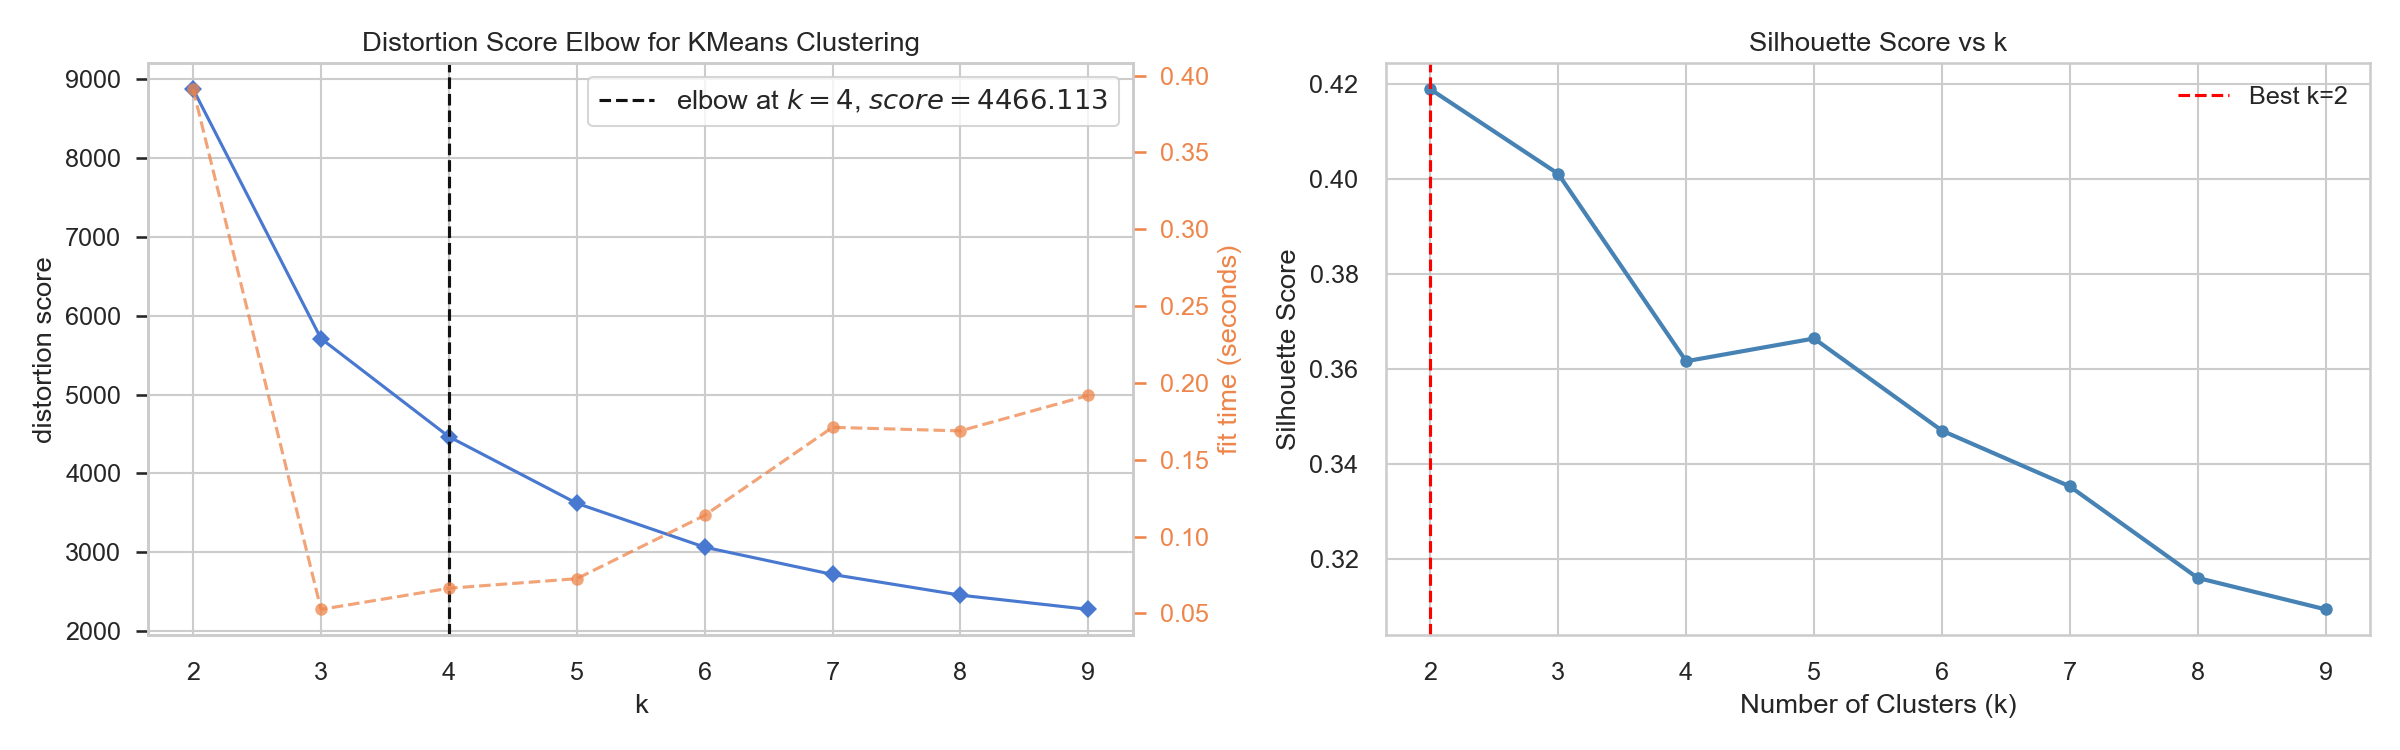
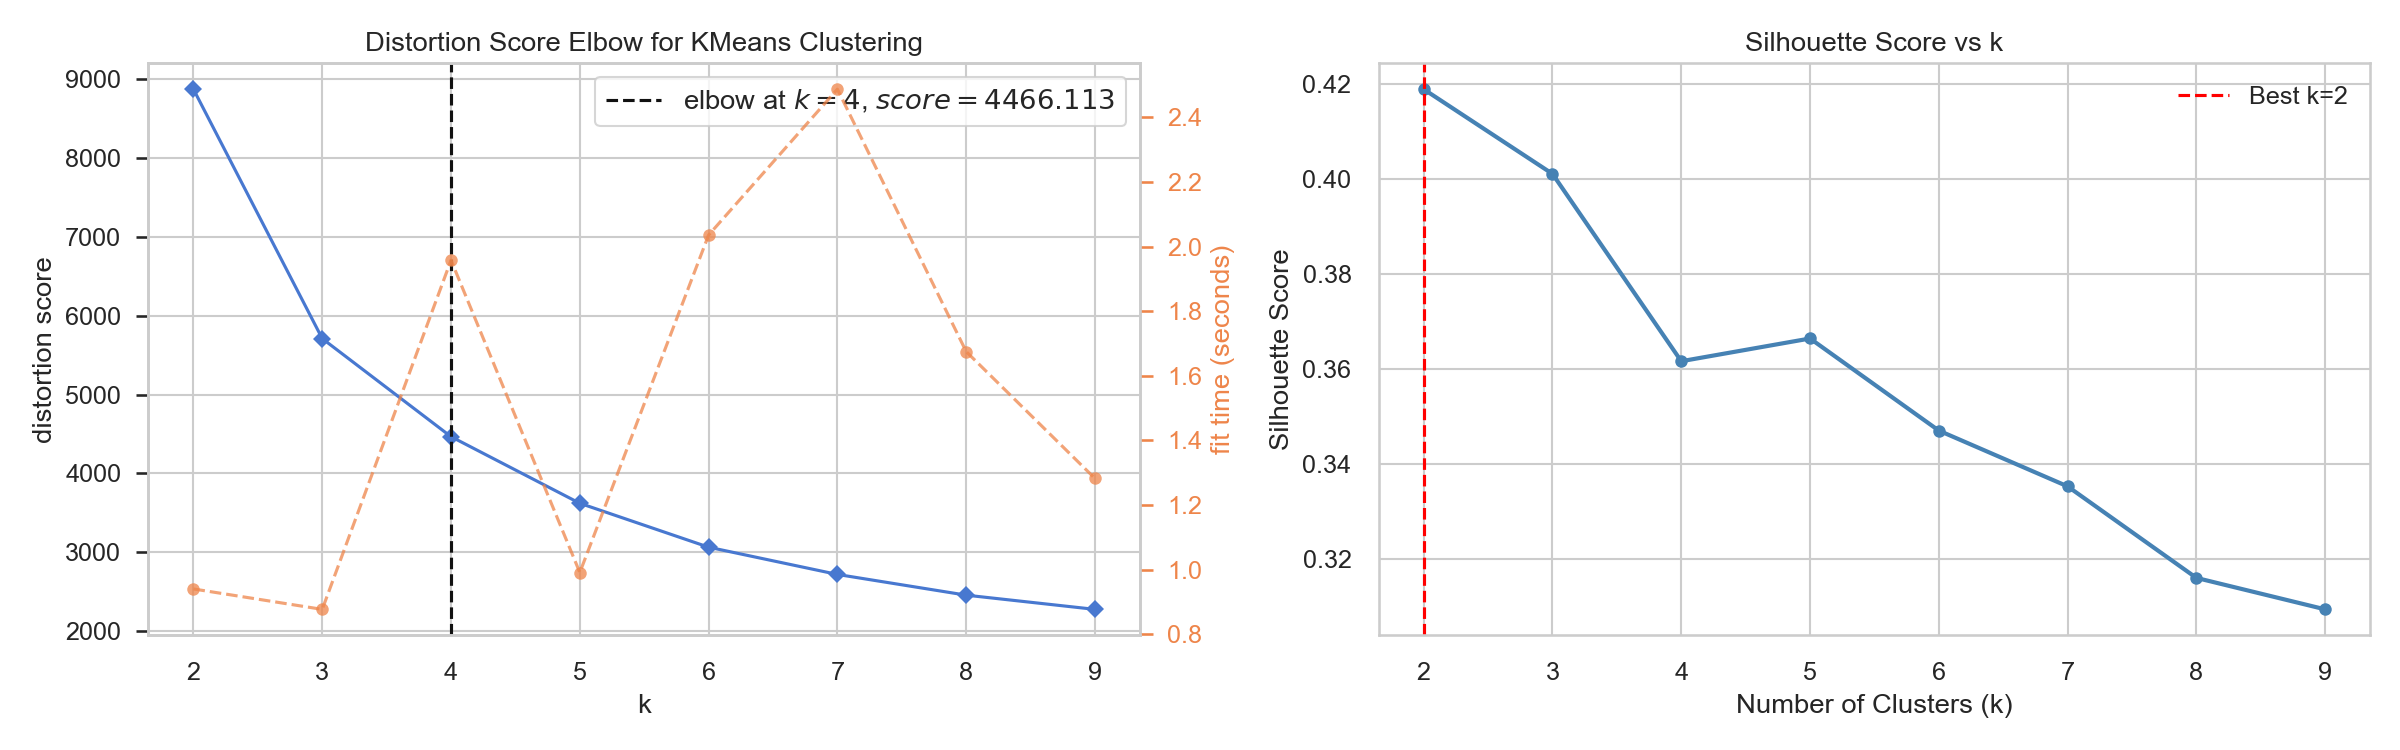
weekend 5 -compared diffrent models training to find the best model. Refactor code structure for improved readability and maintainability

diff --git a/reports/sweetviz_eda.html b/reports/sweetviz_eda.html
@@ -620,7 +620,7 @@ button
                 <div class="pos-df-summary-compare color-compare"></div>
             </div>
             <div class="dataframe-summary-row row-colored">
-                <div class="pos-df-summary-source color-source">314.9 MB</div>
+                <div class="pos-df-summary-source color-source">318.1 MB</div>
                 <div class="pos-df-summary-center">RAM</div>
                 <div class="pos-df-summary-compare color-compare"></div>
             </div>

diff --git a/src/data/clean.py b/src/data/clean.py
@@ -23,16 +23,26 @@ warnings.filterwarnings("ignore")
 
 # ── Paths ──────────────────────────────────────────────────────────────────
 ROOT = Path(__file__).resolve().parents[2]
-DB_PATH = ROOT / "data" / "retail.db"
-OUTPUT_PATH = ROOT / "data" / "retail_clean.parquet"
+DATA_DIR = ROOT / "data"
+DB_PATH = DATA_DIR / "retail.db"
+OUTPUT_PATH = DATA_DIR / "retail_clean.parquet"
+
+
+def validate_inputs() -> None:
+    """Ensure expected upstream assets are present before processing."""
+    DATA_DIR.mkdir(parents=True, exist_ok=True)
+    if not DB_PATH.exists():
+        raise FileNotFoundError(
+            f"Database not found: {DB_PATH}. "
+            "Run src/data/load_retail.py first to build transactions table."
+        )
 
 
 def load_raw(db_path: Path) -> pd.DataFrame:
     """Load raw transactions from SQLite."""
     logger.info("Loading raw transactions from SQLite...")
-    conn = sqlite3.connect(db_path)
-    df = pd.read_sql_query("SELECT * FROM transactions", conn)
-    conn.close()
+    with sqlite3.connect(db_path) as conn:
+        df = pd.read_sql_query("SELECT * FROM transactions", conn)
 
     # Fix types
     df["invoicedate"] = pd.to_datetime(df["invoicedate"])
@@ -142,6 +152,7 @@ def run_pipeline() -> pd.DataFrame:
     logger.info("Starting cleaning pipeline...")
     logger.info("═" * 50)
 
+    validate_inputs()
     df = load_raw(DB_PATH)
     df = remove_duplicates(df)
     df, returns = separate_returns(df)
@@ -157,7 +168,7 @@ def run_pipeline() -> pd.DataFrame:
     logger.success(f"Clean dataset saved → {OUTPUT_PATH}")
 
     # Save returns separately (useful for future analysis)
-    returns_path = ROOT / "data" / "retail_returns.parquet"
+    returns_path = DATA_DIR / "retail_returns.parquet"
     returns.to_parquet(returns_path, index=False)
     logger.success(f"Returns dataset saved → {returns_path}")
 

diff --git a/src/data/load_retail.py b/src/data/load_retail.py
@@ -19,6 +19,13 @@ DB_PATH = DATA_DIR / "retail.db"
 
 def load_excel_to_df() -> pd.DataFrame:
     """Read both sheets from Excel and combine into one DataFrame."""
+    DATA_DIR.mkdir(parents=True, exist_ok=True)
+    if not EXCEL_PATH.exists():
+        raise FileNotFoundError(
+            f"Dataset not found: {EXCEL_PATH}. "
+            "Place online_retail_II.xlsx in the project data/ folder."
+        )
+
     logger.info("Reading Sheet 1 (2009-2010)...")
     df1 = pd.read_excel(EXCEL_PATH, sheet_name="Year 2009-2010", engine="openpyxl")
 
@@ -42,6 +49,7 @@ def standardise_columns(df: pd.DataFrame) -> pd.DataFrame:
 
 def save_to_sqlite(df: pd.DataFrame) -> None:
     """Write DataFrame to SQLite table: transactions."""
+    DATA_DIR.mkdir(parents=True, exist_ok=True)
     logger.info(f"Saving {len(df):,} rows to {DB_PATH}...")
     conn = sqlite3.connect(DB_PATH)
     df.to_sql("transactions", conn, if_exists="replace", index=False)

diff --git a/src/data/explore_sql.py b/src/data/explore_sql.py
@@ -23,6 +23,12 @@ def run_query(conn: sqlite3.Connection, title: str, sql: str) -> None:
 
 
 def main() -> None:
+    if not DB_PATH.exists():
+        raise FileNotFoundError(
+            f"Database not found: {DB_PATH}. "
+            "Run src/data/load_retail.py first."
+        )
+
     conn = sqlite3.connect(DB_PATH)
 
     # ── Query 1: Top 10 countries by total revenue ──────────────

diff --git a/README.md b/README.md
@@ -12,10 +12,16 @@ UCI Online Retail II (~1M transactions) + Amazon Fine Food Reviews
 
 ## Setup
 ```bash
-python -m venv .venv
-.venv\Scripts\activate
+python3.11 -m venv .venv
+source .venv/bin/activate
 pip install -r requirements.txt
 ```
+
+## Data + Run Order
+1. Place the dataset at `data/online_retail_II.xlsx`.
+2. Run ingestion: `python src/data/load_retail.py`
+3. Run cleaning: `python src/data/clean.py`
+4. Run SQL exploration: `python src/data/explore_sql.py`
 
 ## Results
 _(to be filled as weekends progress)_
